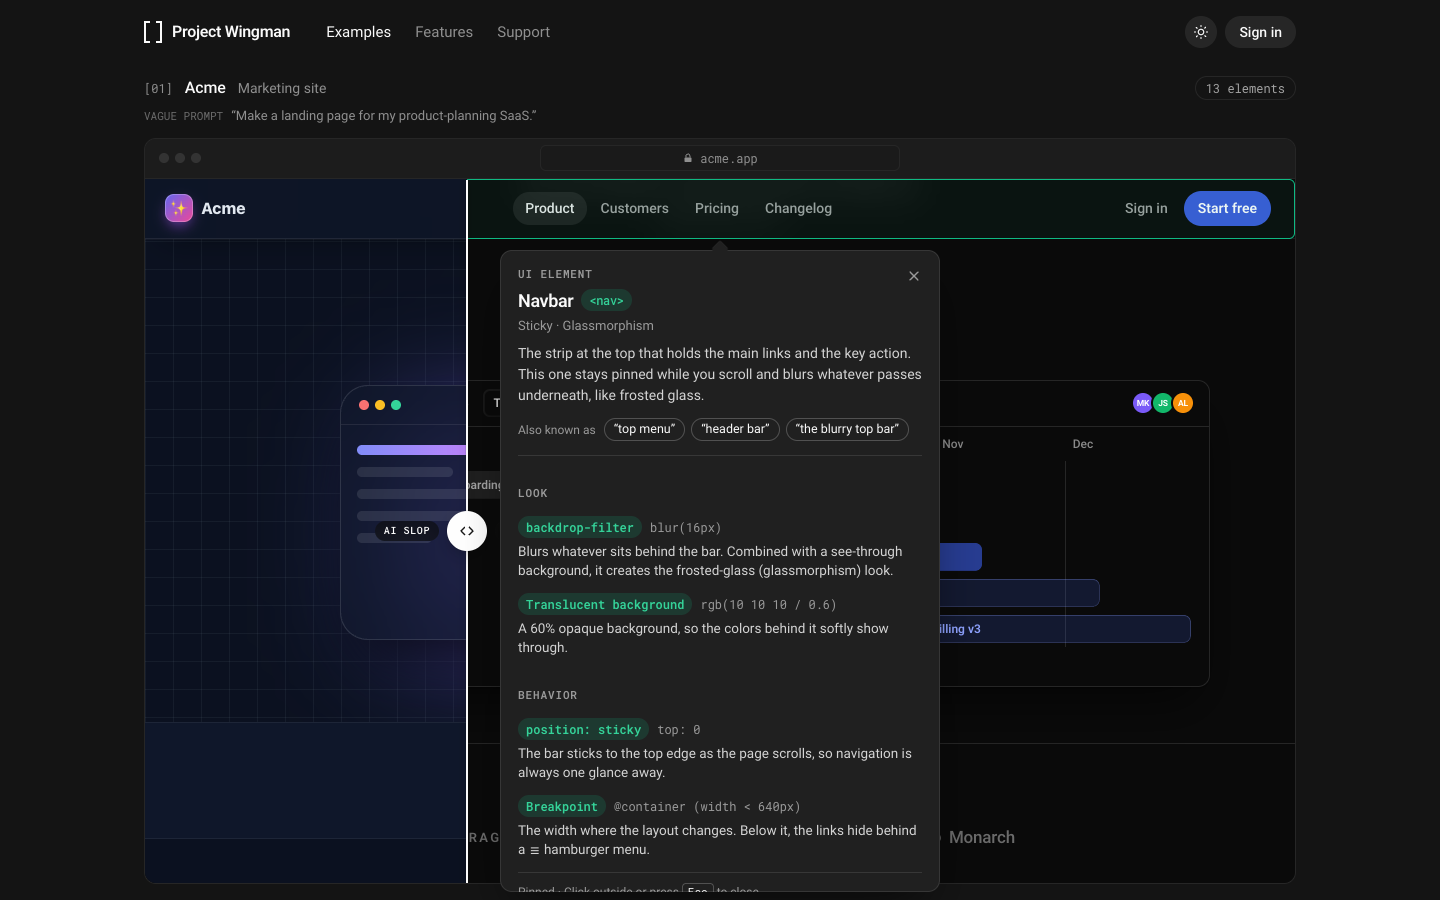
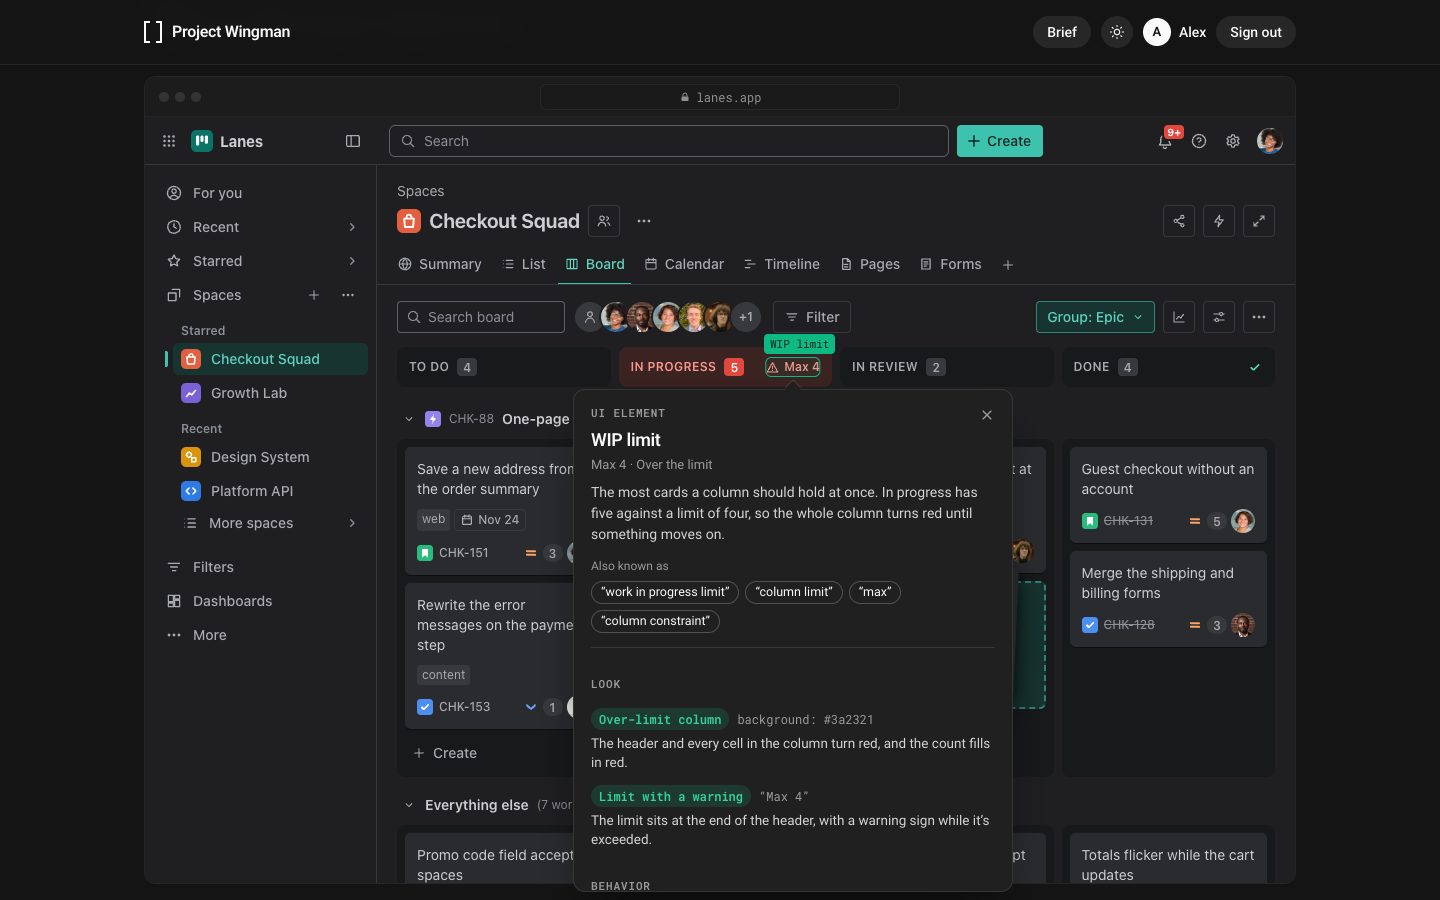
Show the library's newer examples in the README
A new library section shows Lanes with its WIP limit explained, eight
apps for the phone and the watch (Loop, Flick, Nest, Vault, Kindred,
Tempo, Remedy, Pace) and six sites (Stream, Shelf, Glyph, Conduit,
Cadence, Lanes), in light and dark. The landing page's before/after
phones stay; the older Acme picture goes.

diff --git a/README.md b/README.md
@@ -11,22 +11,39 @@ understand. Next, it will write that brief from everyday descriptions like “th
 
 ## A look inside
 
-Each example is a before/after: drag the line to compare the AI slop a vague prompt produces with the same product
-built from a Wingman brief. Hover anything on either side to learn what it's called. Click to pin the full
-explanation: how it looks, how it behaves, and the exact CSS behind it. The examples switch to dark mode with the page
-(products that are dark by design stay dark), and the balloons show the values for the theme you're in.
-
-<picture>
-  <source media="(prefers-color-scheme: dark)" srcset="docs/screenshots/inspect-dark.png">
-  <img alt="The Acme example in its scroll scene, split by the before/after line: the AI slop version on the left, the Wingman version on the right with its frosted-glass navbar's explanation pinned" src="docs/screenshots/inspect-light.png">
-</picture>
-
-Three mobile apps side by side, each split between its AI slop and Wingman versions, with a preview of Muse's Liquid
-Glass navbar:
+Each example on the landing page is a before/after: drag the line to compare the AI slop a vague prompt produces with
+the same product built from a Wingman brief. Hover anything on either side to learn what it's called. Click to pin the
+full explanation: how it looks, how it behaves, and the exact CSS behind it. The examples switch to dark mode with the
+page (products that are dark by design stay dark), and the balloons show the values for the theme you're in.
 
 <picture>
   <source media="(prefers-color-scheme: dark)" srcset="docs/screenshots/phones-dark.png">
   <img alt="The Wave, Muse and Stride phone examples in one row, each split down the middle between the AI slop version and the Wingman version, with a balloon describing Muse's Liquid Glass navbar" src="docs/screenshots/phones-light.png">
+</picture>
+
+### The library
+
+Behind sign-in, the library holds more than thirty apps, sites and watch apps, each modeled on a product people use
+every day: the same layout and component shapes, with its own name, colors, copy and real photos. Every element can be
+inspected the same way and added to a brief. Here Lanes, a board in the style of Jira, explains its WIP limit:
+
+<picture>
+  <source media="(prefers-color-scheme: dark)" srcset="docs/screenshots/inspect-dark.png">
+  <img alt="Lanes, a kanban board in the style of Jira, with the In progress column over its limit and the WIP limit's explanation pinned: what it is, what people call it and the CSS behind it" src="docs/screenshots/inspect-light.png">
+</picture>
+
+Apps for the phone and the watch:
+
+<picture>
+  <source media="(prefers-color-scheme: dark)" srcset="docs/screenshots/library-apps-dark.png">
+  <img alt="Eight library examples: Loop (a photo feed like Instagram), Flick (short videos like TikTok), Nest (stays like Airbnb), Vault (banking like Revolut), Kindred (dating like Tinder), Tempo (music like Spotify), Remedy (doctor booking like Zocdoc) and Pace (a workout on Apple Watch)" src="docs/screenshots/library-apps-light.png">
+</picture>
+
+And websites:
+
+<picture>
+  <source media="(prefers-color-scheme: dark)" srcset="docs/screenshots/library-sites-dark.png">
+  <img alt="Six library sites: Stream (streaming like Netflix), Shelf (a store like Amazon), Glyph (a code editor like VS Code), Conduit (automations like Zapier), Cadence (a calendar like Notion Calendar) and Lanes (a board like Jira)" src="docs/screenshots/library-sites-light.png">
 </picture>
 
 ## Current status: landing page, sign-in, the library and the brief
